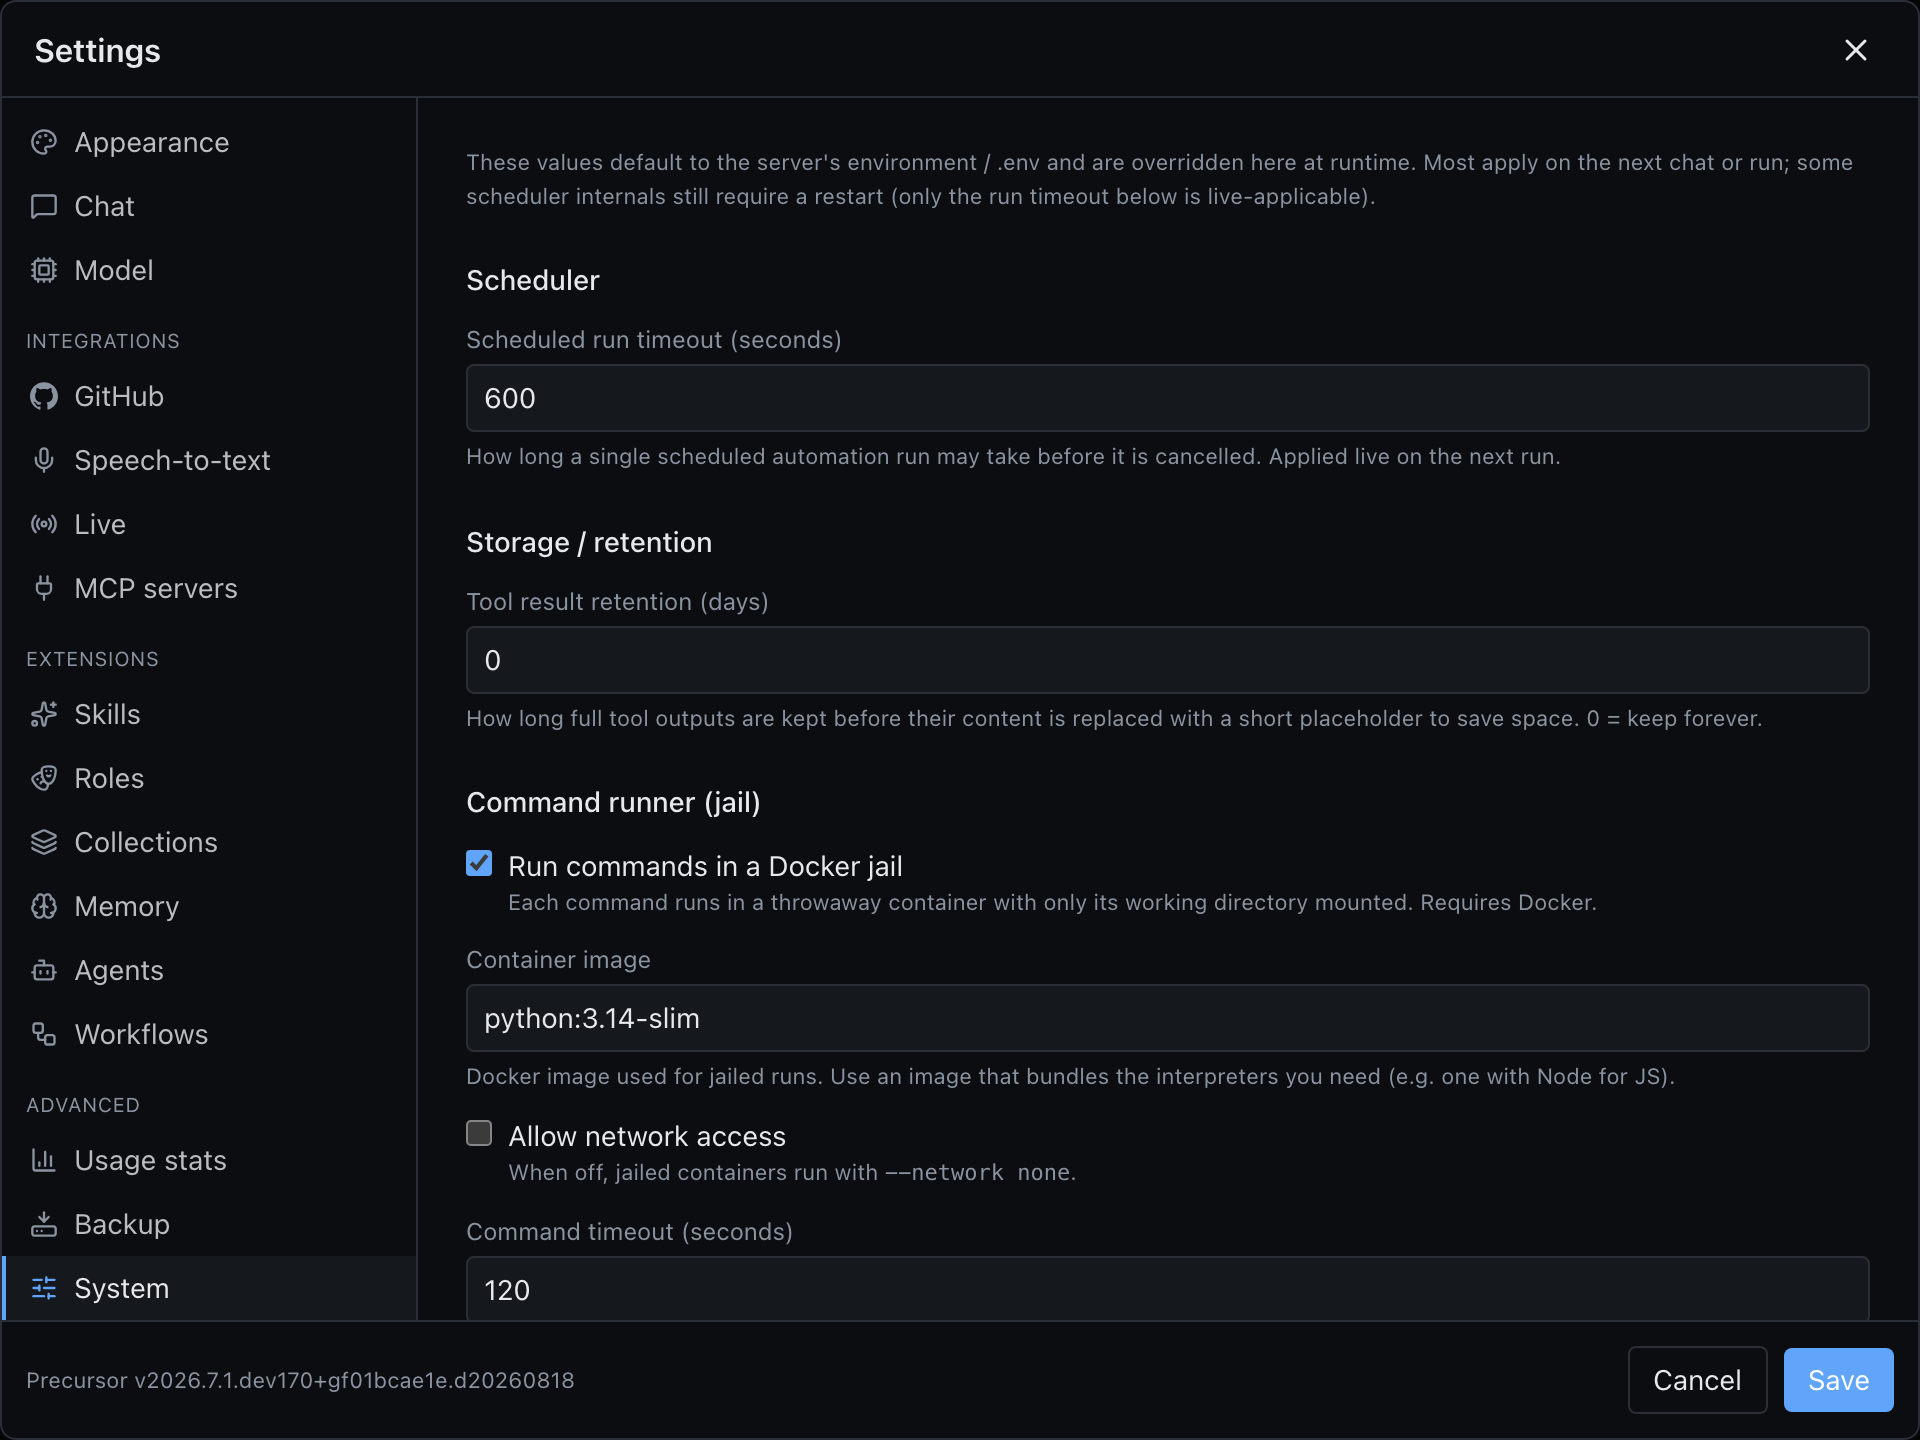
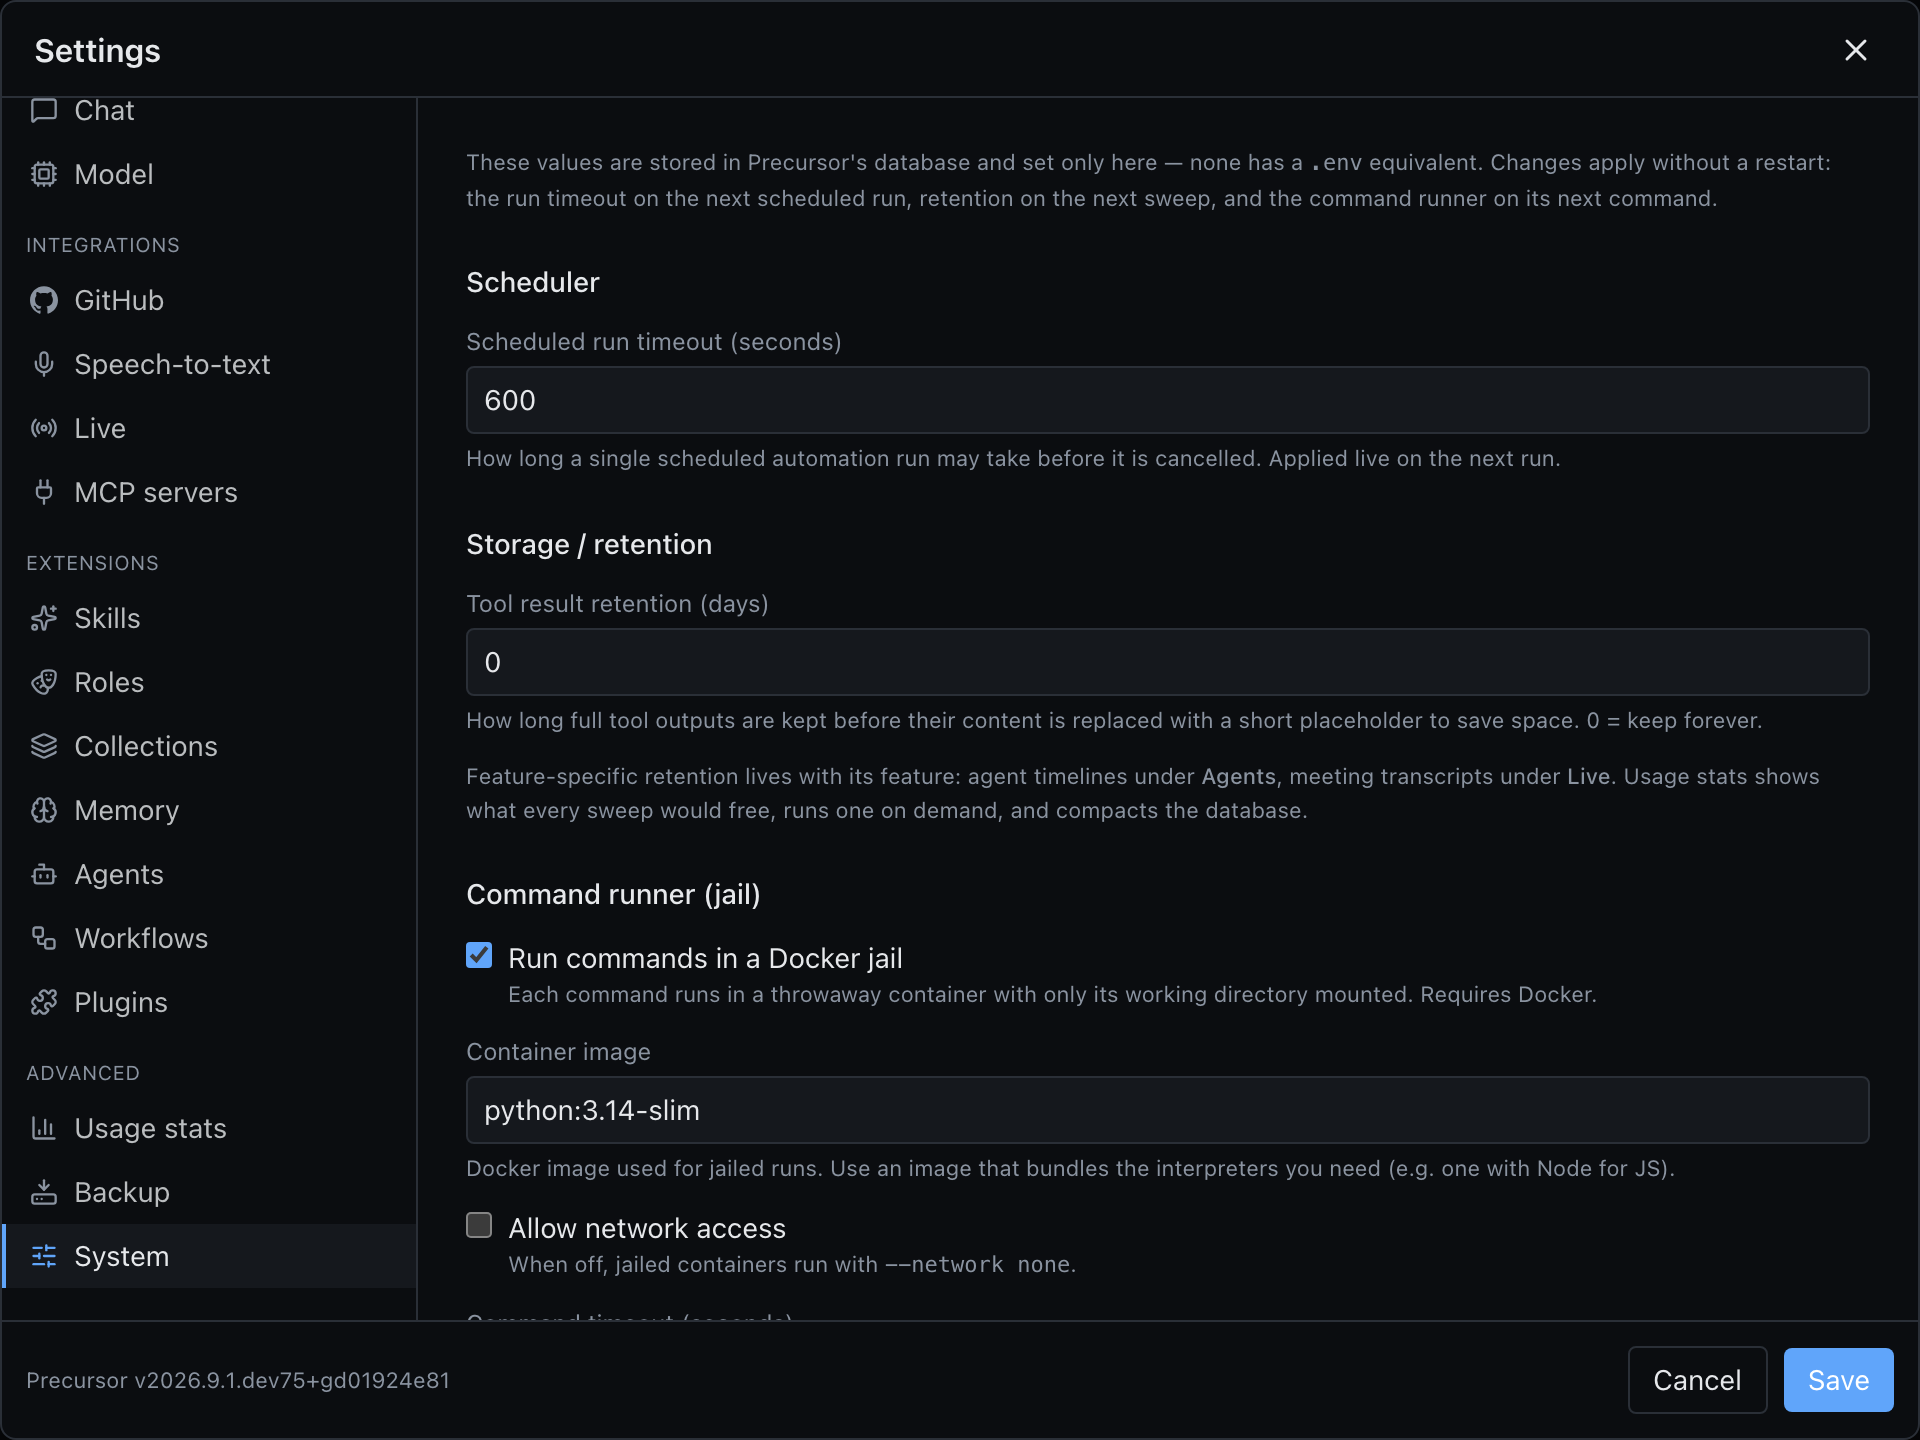
fix(settings): System panel no longer claims its values come from .env
Every field on Settings → System (scheduled run timeout, tool-result
retention, the eight cmd_runner_* knobs) has been database-only since
d94cfe0 removed the env twins, yet the panel still said they "default to the
server's environment / .env" and that only the run timeout was live.

Each is resolved from the DB at point of use (the scheduler per run, the
retention sweep per pass, the cmd-runner MCP server per command), so none
needs a restart. The note now says so, with a data-tooltip on `.env` naming
what does live there.

Also drops the same "env default, overridden by an AppSetting row" wording
from docs/architecture.md and website/reference/stack.md, points the
configuration docs at the run timeout's real home, retakes the
command-runner screenshots, and adds a test that fails if the System panel
copy points back at the environment.

Closes #252

Copilot-Session: 1970f633-f746-44cf-b595-d9c6b5318cf0

diff --git a/frontend/src/components/SettingsPanel.tsx b/frontend/src/components/SettingsPanel.tsx
@@ -1715,11 +1715,17 @@ function SystemTab({
 
   return (
     <div className="space-y-6">
+      {/* Every field below is DB-only and read at point of use — see
+          tests/test_settings_surface.py for the split this copy describes. */}
       <p className="text-[11px] text-muted">
-        These values default to the server's environment / .env and are
-        overridden here at runtime. Most apply on the next chat or run; some
-        scheduler internals still require a restart (only the run timeout below
-        is live-applicable).
+        These values are stored in Precursor's database and set only here —
+        none has a{" "}
+        <code data-tooltip="Only process-level settings live in .env: bind address, database URL, data directory, ticker cadences.">
+          .env
+        </code>{" "}
+        equivalent. Changes apply without a restart: the run timeout on the next
+        scheduled run, retention on the next sweep, and the command runner on its
+        next command.
       </p>
 
       <section className="space-y-3">

diff --git a/tests/test_settings_surface.py b/tests/test_settings_surface.py
@@ -15,8 +15,13 @@ short, justified allow-list.
 
 from __future__ import annotations
 
+import re
+from pathlib import Path
+
 from precursor.backend.config import Settings
 from precursor.backend.schemas.settings import SettingsPayload
+
+_SETTINGS_PANEL = Path(__file__).resolve().parents[1] / "frontend/src/components/SettingsPanel.tsx"
 
 # The two deliberate exceptions. Both describe *the machine or tenant the app runs
 # in* rather than a preference, both are documented (reference/configuration.md,
@@ -47,3 +52,27 @@ def test_the_deliberate_exceptions_still_exist() -> None:
     """
     stale = sorted(_DELIBERATE_ENV_TWINS - set(Settings.model_fields))
     assert not stale, f"allow-list entries no longer on config.Settings: {stale}"
+
+
+def test_system_panel_copy_does_not_point_at_the_environment() -> None:
+    """The panel's own blurb must describe the split the tests above enforce.
+
+    It outlived the split once (#252), telling readers these values "default to
+    the server's environment / .env" — including the ``PRECURSOR_CMD_RUNNER_*``
+    twins that were removed precisely because they could switch the sandbox off.
+    """
+    source = _SETTINGS_PANEL.read_text(encoding="utf-8")
+    start = source.index("function SystemTab(")
+    end = source.index("\nfunction ", start + 1)
+    system_tab = re.sub(r"\s+", " ", source[start:end])
+
+    env_claim = re.compile(
+        r"\b(defaults?|falls? back|comes?)\s+(to|from)\s+(the\s+)?(server'?s\s+)?"
+        r"(environment|\.env)\b|overridden here|PRECURSOR_",
+        re.IGNORECASE,
+    )
+    found = env_claim.search(system_tab)
+    assert found is None, (
+        f"Settings → System copy implies an env fallback ({found.group(0)!r}), but "
+        "every field on that panel is DB-only."
+    )

diff --git a/CHANGELOG.md b/CHANGELOG.md
@@ -477,6 +477,17 @@ are the per-version history; releasing does not rewrite this file.
 
 ### Fixed
 
+- **Settings → System no longer says its values come from `.env`.** The panel
+  opened with "These values default to the server's environment / .env", but
+  every field on it has been database-only since the env twins were removed —
+  including `PRECURSOR_CMD_RUNNER_JAIL`, which the note was still pointing
+  readers at. It now says the values live in the database and apply without a
+  restart: the run timeout on the next scheduled run, retention on the next
+  sweep, and the command runner on its next command. The old claim that only the
+  run timeout was live was wrong too. The same "env default, overridden by the
+  database" description is gone from the architecture and stack docs, the
+  command-runner screenshot is retaken, and a test now fails if the panel's copy
+  points back at the environment (#252).
 - **A failed MCP connect now names its cause.** When a remote server could not
   be reached, for example an Agent 365 endpoint timing out, the server card and
   the log showed only the SDK's wrapper text, `unhandled errors in a TaskGroup

diff --git a/docs/architecture.md b/docs/architecture.md
@@ -181,9 +181,13 @@ remains separate.
   database stamped at a squashed-away revision is auto-adopted to the current
   baseline on next startup (a version-row update only — no schema/data change).
 
-Runtime settings layer over env defaults: `services/app_settings.py` resolves
-each setting as "env/`.env` default, overridden by an `AppSetting` row if
-present, clamped to a sane range".
+Runtime settings are owned by the database: `services/app_settings.py` resolves
+each one as "the `AppSetting` row if present and valid, clamped to a sane range,
+else a factory default declared beside its `resolve_*` helper". Anything the
+Settings panel can change has no `PRECURSOR_*` env twin — bar
+`playwright_browser` and `workiq_tenant_id`, which `.env` may seed — and
+`tests/test_settings_surface.py` pins that split. `.env` (`config.Settings`)
+keeps only what must be known before the database exists.
 
 ## GitHub integration
 

diff --git a/website/guide/configuration.md b/website/guide/configuration.md
@@ -118,7 +118,7 @@ feature it configures:
 | **Workflows** | The [defaults a new pipeline starts from](/features/workflows/building). |
 | **Live / Speech-to-text** | Enable the section, pick the fast insights model, set [transcript retention](/features/live-sessions#transcript-retention) and Azure Speech credentials. |
 | **Backup** | Periodic copy of the database + attachment blobs into a plain folder. |
-| **System** | [Storage retention](/features/storage) and the [command-runner jail](/features/command-runner). |
+| **System** | The scheduled-run timeout, [storage retention](/features/storage) and the [command-runner jail](/features/command-runner). All database-only, and applied without a restart. |
 
 Fleet-wide knobs that aren't per-object — the agent concurrency cap, retry
 backoff — are [`.env` settings](#process-level-configuration-env).

diff --git a/website/reference/stack.md b/website/reference/stack.md
@@ -31,8 +31,10 @@ release.
 - **SQLAlchemy 2 (async)** ORM; **Alembic** is the single source of truth for the
   schema (`alembic upgrade head` runs on startup).
 - **sse-starlette** streams chat replies over Server-Sent Events.
-- **Settings** come from a cached `get_settings()`; runtime-editable settings
-  layer over env defaults via `AppSetting` rows.
+- **Settings** come from a cached `get_settings()` for the process-level `.env`
+  values; everything editable in the app lives in `AppSetting` rows and, bar two
+  documented exceptions, has no env twin (see
+  [Configuration](/reference/configuration)).
 
 Key dependencies (floors, from `pyproject.toml`): `fastapi`, `uvicorn[standard]`,
 `sqlalchemy[asyncio]`, `aiosqlite`, `alembic`, `pydantic`, `pydantic-settings`,

diff --git a/website/reference/configuration.md b/website/reference/configuration.md
@@ -123,6 +123,9 @@ recurrence is stored in the database.
 | `PRECURSOR_SCHEDULER_CONCURRENCY` | `2` | How many scheduled runs may execute at once. |
 | `PRECURSOR_REMINDER_POLL_SECONDS` | `30` | How often the reminder ticker looks for due reminders. |
 
+How long a single scheduled run may take isn't env-level: it's **Settings →
+System → Scheduled run timeout** (default `600` s), read afresh for every run.
+
 ## Retention
 
 Independent sweeps bound long-term database growth — see

diff --git a/website/features/command-runner.md b/website/features/command-runner.md
@@ -43,4 +43,7 @@ reason not to, and never expose Precursor to a network with the jail disabled.
 - Scheduled topics can invoke commands too — see the
   [scheduler](/features/scheduler).
 
-Configure the jail under **Settings → System**.
+Configure the jail under **Settings → System**. Its settings live only in the
+database — there is no `PRECURSOR_CMD_RUNNER_*` variable — and every command
+reads them when it starts, so a change applies to the next one without a
+restart.
